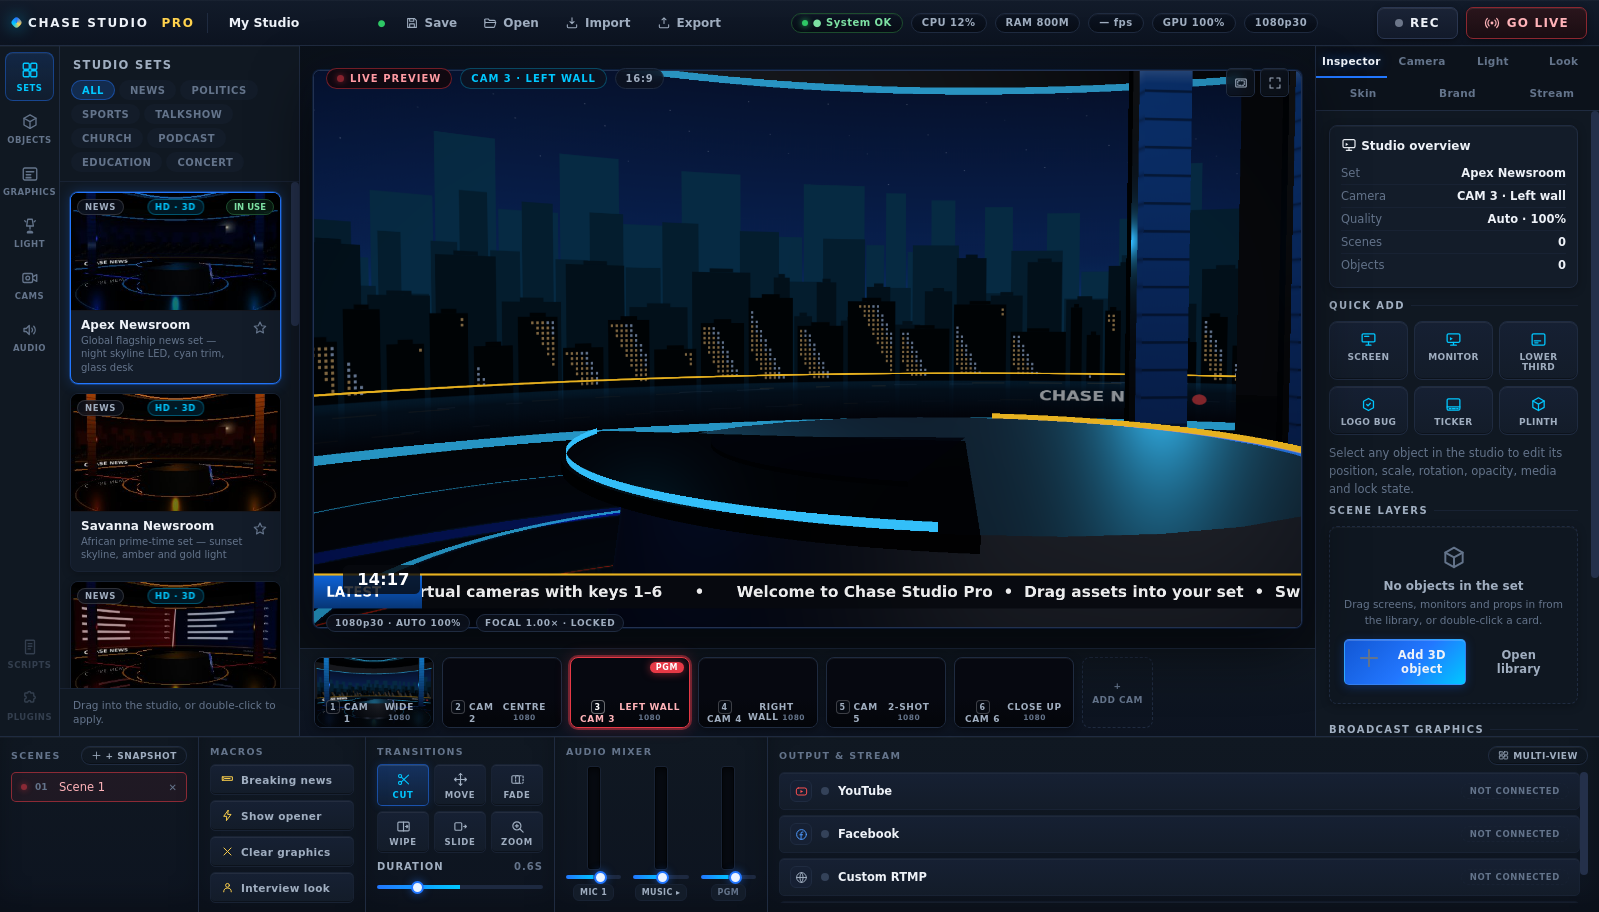
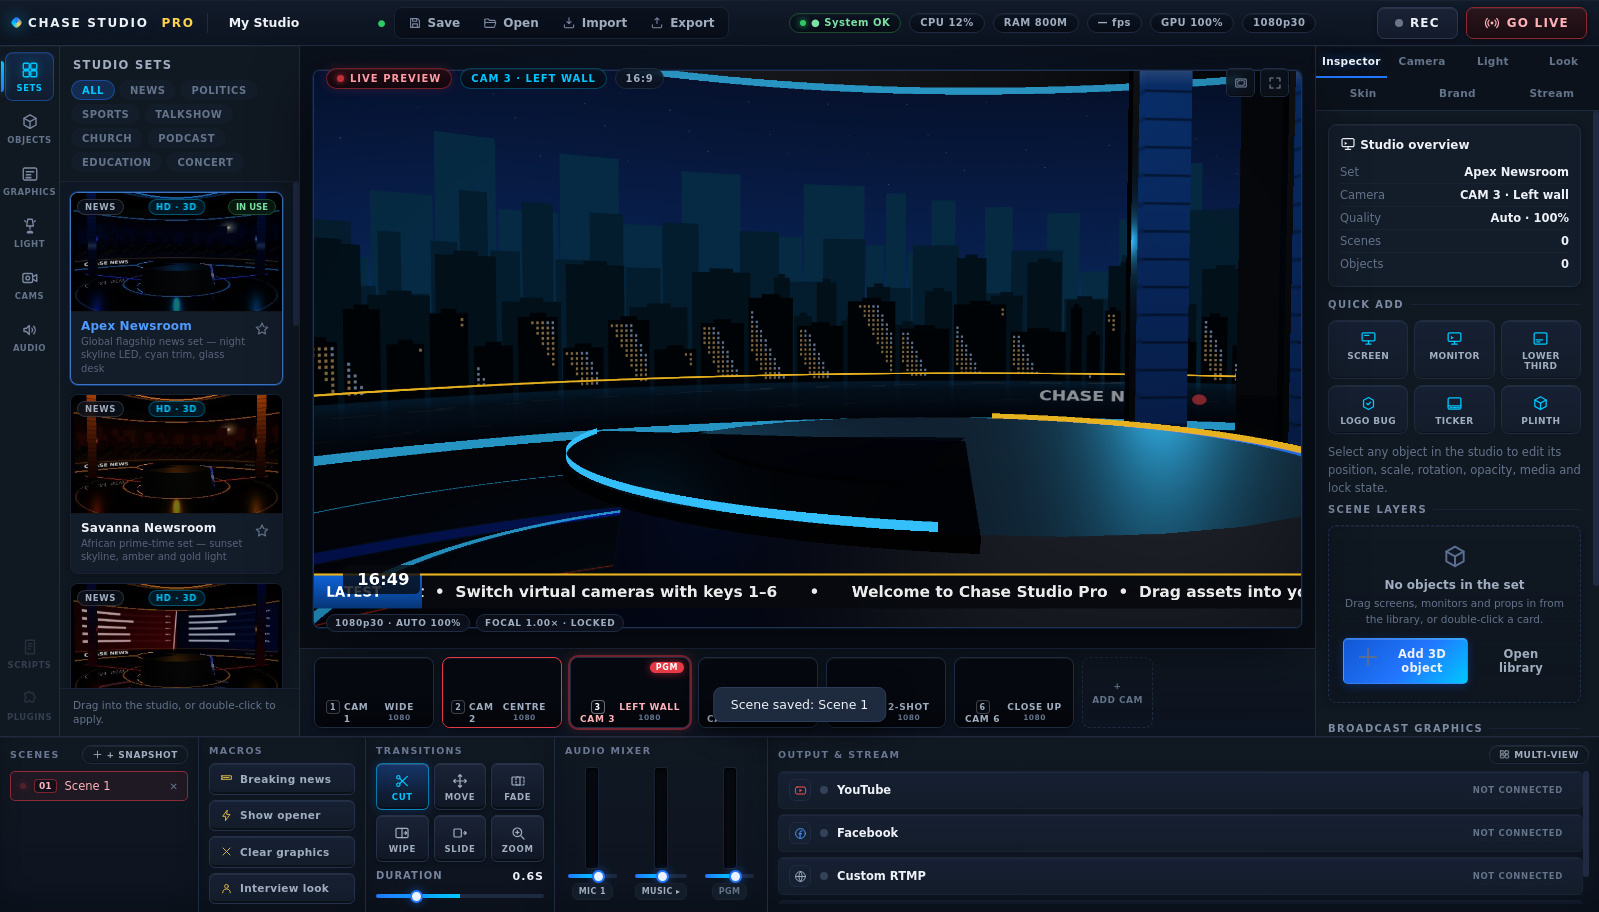
Skin pass v5: strict state/typography/density refinement
- Icon state discipline: muted gray-blue default, brighter hover, cyan
  active with drop glow, dimmed disabled/staged
- Left nav production indicator: cyan-blue edge bar on active section
- Switcher keys: chunkier CUT/MOVE/FADE/WIPE/SLIDE/ZOOM caps with deep
  bevel, press travel and lit active state
- Scene number slot chips; macro key caps
- Typography hierarchy: bolder card titles, muted descriptions, stronger
  inspector values (right-aligned tabular), calmer section headings
- Selected set card becomes an active surface (gradient + ring), not
  just an outline
- Focus-visible rings on all cards/tiles/tabs; unified disabled rules
- Density: tighter panel/browser/strip gutters, aligned field rhythm
- Instrument-thin scrollbars, modal header rule, grouped topbar action
  cluster, premium tally treatment on LIVE PREVIEW / CAM badges,
  channel-strip hover on mixer, calmer designed empty-state surfaces

https://claude.ai/code/session_01GgW27B3ceeKVXoqggMTP4P

diff --git a/src/renderer/styles/app.css b/src/renderer/styles/app.css
@@ -1012,3 +1012,131 @@ input[type="checkbox"] { accent-color: var(--blue); width: 14px; height: 14px; }
 
 /* -- gfx drawer + modal elevation refinement -- */
 .gfx-drawer { background: linear-gradient(180deg, var(--bg-3), var(--bg-2)); }
+
+/* ============================================================
+   SKIN PASS v5 — strict refinement: state discipline, switcher
+   tactility, nav indicator, typographic hierarchy, density.
+   No layout changes.
+   ============================================================ */
+
+/* ---- icon state discipline (default muted → hover bright → active cyan) ---- */
+.irail-btn .ic, .tbtn .ic, .vtool .ic, .ly-ico .ic { color: #7d8aa3; transition: color .14s; }
+.irail-btn:hover .ic, .tbtn:hover .ic, .vtool:hover .ic { color: #c4d2e8; }
+.irail-btn.active .ic { color: var(--cyan); filter: drop-shadow(0 0 5px rgba(0,199,255,.45)); }
+.btn:disabled .ic, .irail-btn.staged .ic { opacity: .5; }
+
+/* ---- left nav: production sidebar indicator ---- */
+.irail-btn { position: relative; }
+.irail-btn.active::before {
+  content: ""; position: absolute; left: -5px; top: 18%; bottom: 18%; width: 3px;
+  border-radius: 0 3px 3px 0; background: linear-gradient(180deg, var(--cyan), var(--blue));
+  box-shadow: 0 0 8px rgba(0,199,255,.5);
+}
+
+/* ---- switcher buttons: chunky live-desk keys ---- */
+.trans-btn {
+  padding: 9px 0 7px; border-radius: 6px;
+  border-color: #25304a;
+  background: linear-gradient(180deg, #1a2336, #131b2b 60%, #101725);
+  box-shadow: inset 0 1px 0 rgba(255,255,255,.07), inset 0 -2px 0 rgba(0,0,0,.45), 0 2px 4px rgba(0,0,0,.35);
+}
+.trans-btn:hover { border-color: var(--line-hi); color: var(--txt); }
+.trans-btn:active { transform: translateY(1px); box-shadow: inset 0 2px 6px rgba(0,0,0,.5); }
+.trans-btn.active {
+  border-color: rgba(0,199,255,.55); color: var(--cyan);
+  background: linear-gradient(180deg, rgba(34,119,255,.32), rgba(18,60,140,.18) 70%, rgba(10,30,70,.2));
+  box-shadow: inset 0 1px 0 rgba(255,255,255,.14), inset 0 -2px 0 rgba(0,0,0,.3), 0 0 12px rgba(34,119,255,.22);
+}
+.trans-btn .ic { width: 16px; height: 16px; }
+
+/* ---- macro keys: icon slot + cap ---- */
+.macro-btn {
+  border-radius: 6px; border-color: #25304a;
+  box-shadow: inset 0 1px 0 rgba(255,255,255,.06), inset 0 -2px 0 rgba(0,0,0,.4);
+}
+.macro-btn .ic { opacity: .85; }
+
+/* ---- scene cards: slot-number chip + calmer default ---- */
+.scene-item .sc-num {
+  width: auto; min-width: 17px; text-align: center; padding: 1px 4px;
+  border: 1px solid var(--line-soft); border-radius: 4px; background: rgba(8,12,20,.6);
+}
+.scene-item.live .sc-num { border-color: rgba(230,57,70,.5); color: #ffb3b9; }
+
+/* ---- typography hierarchy tightening ---- */
+.bset-meta .n, .lib-card .l-name { font-weight: 750; letter-spacing: .01em; }
+.bset-meta .d, .lib-card .l-desc { color: #58637a; }
+.ps-block h4 { color: #6b7894; }
+.panel h3 { color: #7d8aa3; }
+output { color: var(--txt); font-weight: 700; font-size: 11px; }
+.field label, .field-label { color: #76839d; }
+.dr-state, .bset-tag, .bset-q, .statchip { font-variant-numeric: tabular-nums; }
+.brandmark { text-shadow: 0 0 18px rgba(0,199,255,.15); }
+
+/* ---- selected set card: premium active surface, not just an outline ---- */
+.bset-card.active {
+  background: linear-gradient(180deg, rgba(34,119,255,.12), var(--bg-2) 55%);
+  border-color: rgba(79,155,255,.7);
+  box-shadow: 0 0 0 1px rgba(34,119,255,.35), 0 4px 14px rgba(0,0,0,.4), 0 0 16px rgba(34,119,255,.12);
+}
+.bset-card.active .n { color: var(--blue-hi); }
+
+/* ---- inspector: labels muted left, values strong right; module grouping ---- */
+.obj-props .field.slim label { display: flex; justify-content: space-between; align-items: baseline; }
+.panel .field.slim { padding-left: 1px; }
+.statusbox { box-shadow: inset 0 1px 0 rgba(255,255,255,.03); }
+
+/* ---- focus discipline on cards & tiles (keyboard reachable) ---- */
+.bset-card:focus-visible, .lib-card:focus-visible, .cam-tile:focus-visible,
+.scene-item:focus-visible, .trans-btn:focus-visible, .macro-btn:focus-visible,
+.irail-btn:focus-visible, .insp-tab:focus-visible {
+  outline: none; box-shadow: var(--focus);
+}
+
+/* ---- disabled discipline ---- */
+button:disabled, .btn:disabled, select:disabled, input:disabled {
+  opacity: .38; cursor: default;
+}
+button:disabled:hover { background: inherit; border-color: var(--line); }
+
+/* ---- density: tighter technical groups, aligned gutters ---- */
+.panel { padding: 13px 12px; }
+.browser-body { padding: 10px 10px 12px; }
+.ps-block { padding: 8px 10px; }
+.field.slim { margin-bottom: 8px; }
+.chipset { gap: 4px; margin-bottom: 10px; }
+.layer-list li { padding: 6px 8px; }
+
+/* ---- scrollbars: instrument-thin ---- */
+::-webkit-scrollbar { width: 6px; height: 6px; }
+::-webkit-scrollbar-thumb { background: #202b42; border-radius: 3px; }
+::-webkit-scrollbar-thumb:hover { background: #2c3a58; }
+
+/* ---- modal: header rule + surface light ---- */
+.modal h2 { padding-bottom: 11px; border-bottom: 1px solid var(--line-soft); }
+.modal { box-shadow: var(--shadow-3), inset 0 1px 0 rgba(255,255,255,.05); }
+
+/* ---- topbar grouping: actions cluster reads as one unit ---- */
+.topbar-actions {
+  display: flex; gap: 1px; background: rgba(7,11,18,.5);
+  border: 1px solid var(--line-soft); border-radius: var(--r-md); padding: 2px;
+}
+.tbtn { border-radius: 5px; }
+
+/* ---- live preview badge: premium tally treatment ---- */
+.vp-live {
+  background: linear-gradient(180deg, rgba(40,10,14,.85), rgba(20,5,8,.85));
+  box-shadow: inset 0 1px 0 rgba(255,255,255,.06), 0 0 12px rgba(230,57,70,.18);
+}
+.vp-cam {
+  background: linear-gradient(180deg, rgba(8,18,30,.85), rgba(5,10,18,.85));
+  box-shadow: inset 0 1px 0 rgba(255,255,255,.05);
+}
+
+/* ---- mixer faders read as channel strips ---- */
+.mx-ch { padding: 2px 3px; border-radius: 6px; }
+.mx-ch:hover { background: rgba(255,255,255,.02); }
+
+/* ---- empty-state cards: calmer, intentional ---- */
+.empty-state { background: linear-gradient(180deg, rgba(16,24,34,.55), rgba(12,18,28,.35)); border-color: #223050; }
+.empty-state .ic { color: #5b6e92; }